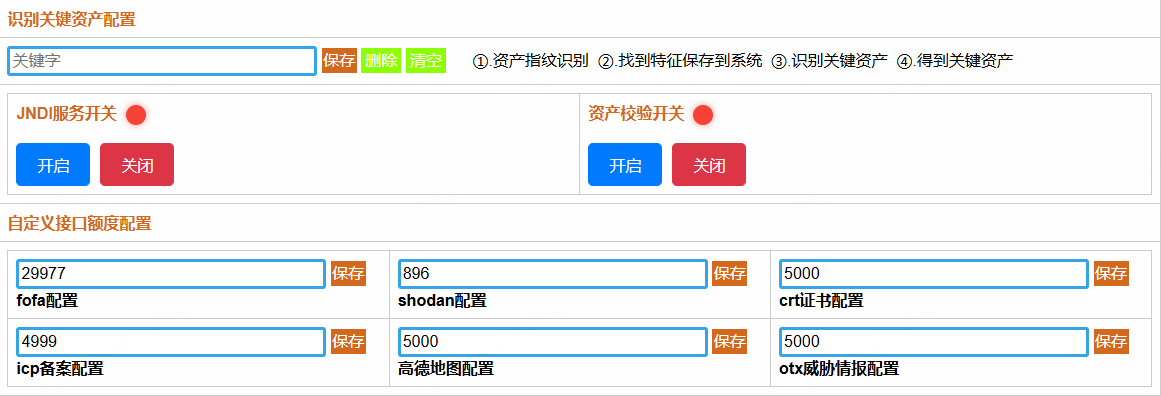
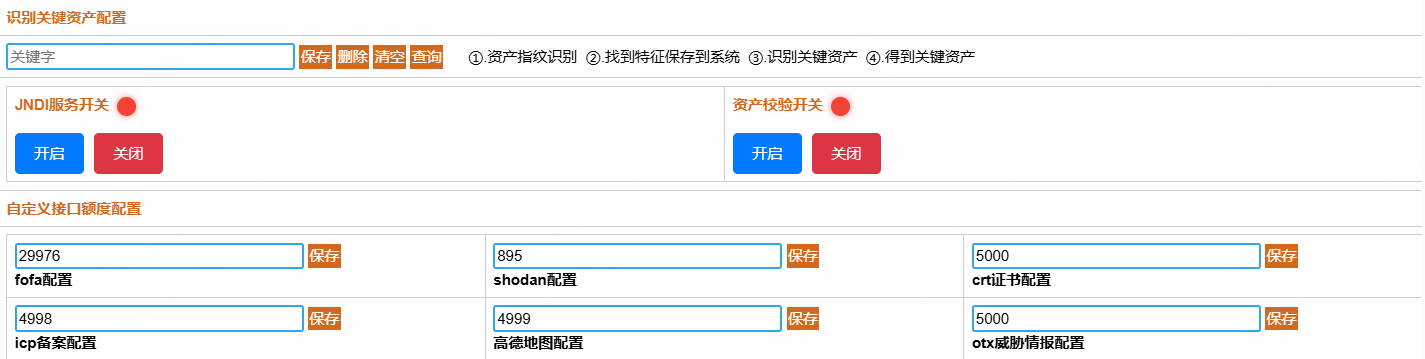
系统优化

Changed region(s): [[0.0, 0.0, 1.0, 1.0]]

diff --git a/static/js/common.js b/static/js/common.js
@@ -567,7 +567,7 @@ function startscanconfigpagefunc() {
     var sessionid6 = document.getElementById('sessionid6');
 
     $.ajax({
-        url: '/system_config_data/', 
+        url: '/system_config_data/',
         method: 'GET',
         success: function (info) {
             // 为input元素赋值
@@ -605,7 +605,7 @@ function startscanconfigpagefunc() {
             // 资产校验开关状态
             const statusElement1 = document.getElementById('assetsjiaoyanstatusid1');
             const status1 = info.assets_jiaoyan_status;
-            
+
             // 根据状态添加对应样式
             if (status1 === '已开启校验') {
                 statusElement1.classList.add('status-running');
@@ -1000,11 +1000,12 @@ function delete_rule_func() {
             key: 1
         },
         success: function (info) {
-            alert(info.delete_rule)
+            document.getElementById("filterruleid1").innerHTML = info.delete_rule;
+            // alert(info.delete_rule)
         },
 
         error: function (info) {
-            alert("内部出错")
+            document.getElementById("filterruleid1").innerHTML = "内部出错";
         },
         complete: function () {
 
@@ -1024,11 +1025,12 @@ function delete_rule_all_func() {
             key: 2
         },
         success: function (info) {
-            alert(info.delete_rule)
+            document.getElementById("filterruleid1").innerHTML = info.delete_rule;
         },
 
         error: function (info) {
-            alert("内部出错")
+            // alert("内部出错")
+            document.getElementById("filterruleid1").innerHTML = "内部出错";
         },
         complete: function () {
 
@@ -1893,12 +1895,12 @@ function comfirmclearlogfunc() {
             sessionid5: sessionid5,
             sessionid6: sessionid6,
             rule_input_id1: rule_input_id1,
-            customizelimitid1:customizelimitid1,
-            customizelimitid2:customizelimitid2,
-            customizelimitid3:customizelimitid3,
-            customizelimitid4:customizelimitid4,
-            customizelimitid5:customizelimitid5,
-            customizelimitid6:customizelimitid6
+            customizelimitid1: customizelimitid1,
+            customizelimitid2: customizelimitid2,
+            customizelimitid3: customizelimitid3,
+            customizelimitid4: customizelimitid4,
+            customizelimitid5: customizelimitid5,
+            customizelimitid6: customizelimitid6
         },
         success: function (info) {
             document.getElementById("filterruleid1").innerHTML = info.recheck_result;
@@ -2900,11 +2902,11 @@ function pointlogopagefunc() {
 function updateClock() {
     const now = new Date();
     const formattedTime = now.getFullYear() + '/' +
-                         String(now.getMonth() + 1).padStart(2, '0') + '/' +
-                         String(now.getDate()).padStart(2, '0') + ' ' +
-                         String(now.getHours()).padStart(2, '0') + ':' +
-                         String(now.getMinutes()).padStart(2, '0') + ':' +
-                         String(now.getSeconds()).padStart(2, '0');
+        String(now.getMonth() + 1).padStart(2, '0') + '/' +
+        String(now.getDate()).padStart(2, '0') + ' ' +
+        String(now.getHours()).padStart(2, '0') + ':' +
+        String(now.getMinutes()).padStart(2, '0') + ':' +
+        String(now.getSeconds()).padStart(2, '0');
     document.getElementById('clock').textContent = formattedTime;
 }
 
@@ -2970,4 +2972,48 @@ function stopassetsjiaoyanfunc() {
             statusElement.className = 'status-circle status-error';
         }
     })
+}
+
+
+// 查询高危资产规则
+function select_rule_all_func() {
+    var modal7 = document.getElementById("modal7");
+    modal7.style.display = "block";
+    // 清空表格体中的所有行
+    const tableBody = document.querySelector('#data-table3 tbody');
+    tableBody.innerHTML = '';
+    $.ajax({
+        url: '/high_asset_characteristics/',
+        method: 'GET',
+        success: function (info) {
+            const tableBody = document.querySelector('#data-table3 tbody');
+
+            // 遍历数组中的每个字符串项
+            info.assets_character_result.forEach((item) => {
+                const row = document.createElement('tr'); // 创建新的行
+
+                // 创建内容单元格
+                const contentCell = document.createElement('td');
+                contentCell.textContent = item; // 显示数组中的字符串
+                row.appendChild(contentCell);
+
+                tableBody.appendChild(row); // 将行添加到表格体中
+            });
+
+        },
+        error: function () {
+
+
+        },
+        complete: function () {
+
+        }
+    })
+}
+
+// 关闭高危资产查询规则
+function stop_rule_all_func() {
+    var modal7 = document.getElementById("modal7");
+    modal7.style.display = "none";
+
 }

diff --git a/templates/tanchuang.html b/templates/tanchuang.html
@@ -516,8 +516,9 @@
                     <input type="text" placeholder="关键字" id="rule_input_id1" class="my-input5">
 
                     <span class="my-span" onclick="startverifychearlogfunc('11')">保存</span>
-                    <span class="my-spann" onclick="delete_rule_func()">删除</span>
-                    <span class="my-spann" onclick="delete_rule_all_func()">清空</span>
+                    <span class="my-span" onclick="delete_rule_func()">删除</span>
+                    <span class="my-span" onclick="delete_rule_all_func()">清空</span>
+                    <span class="my-span" onclick="select_rule_all_func()">查询</span>
                     &nbsp;&nbsp;&nbsp;&nbsp;
                     ①.资产指纹识别&nbsp;&nbsp;②.找到特征保存到系统&nbsp;&nbsp;③.识别关键资产&nbsp;&nbsp;④.得到关键资产
 
@@ -707,6 +708,26 @@
                     <th>Name</th>
                     <th>Remote Address</th>
                     <th>Created At</th>
+                </tr>
+            </thead>
+            <tbody>
+                <!-- 数据将被填充在这里 -->
+            </tbody>
+        </table>
+
+    </div>
+</div>
+
+<!-- 高危资产过滤规则列表 -->
+<div id="modal7" class="modal2">
+    <div class="modal-content4">
+        <span class="close" onclick="stop_rule_all_func()">&times;</span>
+        <h3>高危资产过滤规则</h3>
+       
+        <table id="data-table3">
+            <thead>
+                <tr>
+                    <th>规则名称</th>
                 </tr>
             </thead>
             <tbody>

diff --git a/static/css/common.css b/static/css/common.css
@@ -213,10 +213,12 @@ h2 {
 	/* 垂直居中，水平居中  */
 	padding: 5px;
 	border: 10px solid #888;
-	width: 80%;
+	width: 100%;
 	/* 弹窗宽度可以根据需要调整 */
 	border: 2px solid #007BFF;
 	/* 设置边框宽度为2px，样式为实线，颜色为蓝色 */
+	margin-left: 15%;
+	margin-top: 3%;
 }
 .close1 {
 	color: #aaa;
@@ -844,5 +846,39 @@ body {
 	height: 50px;
 	width: 500px;
 	resize: vertical;
+	
+}
+
+.modal2 {
+	display: none;
+	/* 隐藏弹窗 */
+	position: absolute;
+	/* 弹窗固定在视口 */
+	
+	left: 0;
+	top: 0;
+	width: 60%;
+	/* 宽度为全屏 */
+	height: 100%;
+	/* 高度为全屏 */
+	overflow: auto;
+	/* 启用滚动条 */
+	background-color: rgba(0, 0, 0, 0.5);
+	/* 黑色背景，半透明 */
+	z-index: 1009;
+	/* 确保弹窗在其他元素上面 */
+}
+
+.modal-content4 {
+	background-color: #fefefe;
+	margin: 10% auto;
+	margin-left: 15% ;
+	/* 垂直居中，水平居中  */
+	padding: 5px;
+	border: 10px solid #888;
+	width: 80%;
+	/* 弹窗宽度可以根据需要调整 */
+	border: 2px solid #007BFF;
+	/* 设置边框宽度为2px，样式为实线，颜色为蓝色 */
 	
 }

diff --git a/templates/largescreen.html b/templates/largescreen.html
@@ -132,7 +132,8 @@
                     </ul>
 
 
-                    <div class="row" style="padding: 0 2vw">
+                    <!-- <div class="row" style="padding: 0 2vw"> -->
+                    <div class="tab-content">
                         <div class="col-md-2">
                             <div class="column">
                                 <p>fofa</p>
@@ -537,6 +538,8 @@
                     </div>
                 </div>
             </div>
+
+
             <div class="col-md-6 col-lg-3 mrbt">
                 <div class="totalbox">
                     <!-- Nav tabs -->
@@ -739,7 +742,8 @@
                     </ul>
 
 
-                    <div class="row" style="padding: 0 2vw">
+                    <!-- <div class="row" style="padding: 0 2vw"> -->
+                    <div class="tab-content">
 
                         <div class="col-md-2">
                             <div class="column">
@@ -835,7 +839,6 @@
 
                 </div>
             </div>
-
 
         </div>
     </div>

diff --git a/templates/index.html b/templates/index.html
@@ -378,7 +378,7 @@
 										<input type="button" id="button24" value="CDN检测" onclick="opencdnjiancefunc()"
 											disabled>&nbsp;&nbsp;
 
-										<input type="button" id="button51" value="识别关键资产" onclick="key_data_tiqu_func()"
+										<input type="button" id="button51" value="识别高危资产" onclick="key_data_tiqu_func()"
 											disabled>&nbsp;&nbsp;&nbsp;&nbsp;&nbsp;&nbsp;
 
 										

diff --git a/static/css/largescreen-base.css b/static/css/largescreen-base.css
@@ -68,7 +68,9 @@ body{
 .totalbox{
     border: 1px solid #3188ff;
     box-shadow: 0.1vw 0.1vw 1vw rgba(38,79,141,.7);
-    height: 22vw;
+    height: 25vw;
+    
+
 }
 
 .totaltem{
@@ -126,7 +128,8 @@ body{
 }
 
 .tab-content{
-    height: 86%;
+    height: 100%;
+    width: 100%;
 }
 .tab-pane{
     height: 100%;

diff --git a/scan_main_web.py b/scan_main_web.py
@@ -15,7 +15,7 @@ from basic import root_domain_scan
 #主系统账号密码配置导入
 from config import main_username
 from config import main_password
-# 重点资产数量规则
+# 高危资产数量规则
 from config import Shiro_rule
 from config import SpringBoot_rule
 from config import weblogic_rule
@@ -1286,7 +1286,7 @@ def shiro_report_show():
     
     
 
-#识别重点资产
+#识别高危资产
 @app.route("/key_assets_withdraw/")
 def key_assets_withdraw():
     user = session.get('username')
@@ -1295,7 +1295,7 @@ def key_assets_withdraw():
         
         eholestatus = os.popen('bash /TIP/info_scan/finger.sh ehole_status').read()
         if "running" in eholestatus:
-            key_assets_result = "指纹识别接口正在运行中请稍后再进行识别重点资产"
+            key_assets_result = "指纹识别接口正在运行中请稍后再进行识别高危资产"
         else:
 
             # 根据config.py中finger_list配置进行识别，可在finger_list列表中配置多个，最终写入到全局资产文件url.txt中
@@ -1313,9 +1313,9 @@ def key_assets_withdraw():
             # 从资产文件url.txt中根据规则分别提取出springboot、weblogic、struts2、shiro资产并写入对应的文件
             basic.asset_by_rule_handle()
 
-            key_assets_result = "已成功识别出重点资产"
+            key_assets_result = "已成功识别出高危资产"
             # 筛选后资产时间线更新
-            basic.assets_status_update('识别重点资产已完成')
+            basic.assets_status_update('识别高危资产已完成')
         
         message_json = {
             "key_assets_result":key_assets_result
@@ -1520,7 +1520,7 @@ def restartsystemservice():
 
 
 
-# 重点资产识别根据筛选规则名称删除
+# 高危资产识别根据筛选规则名称删除
 @app.route("/delete_point_rule_interface/",methods=['post'])
 def delete_point_rule_interface():
     user = session.get('username')
@@ -4769,7 +4769,7 @@ def comfirmclearloginterface():
                 print("配置otx威胁情报接口额度")
                 recheck_result = basic.update_customize_interface_totalnum(customizelimitid6,6)
             elif int(inputmodel3) ==11:
-                print("配置重点资产识别")
+                print("配置高危资产识别")
                 
                 if '' in  rule_input_id1:
                     recheck_result = "输入参数不能为空"
@@ -6291,6 +6291,20 @@ def stopassetserification():
         return render_template('login.html')
 
 
+# 高危资产特征查询
+@app.route("/high_asset_characteristics/")
+def high_asset_characteristics():
+    user = session.get('username')
+    if str(user) == main_username:
+        assets_character_result = basic.select_rule()
+        if len(assets_character_result) == 0:
+            assets_character_result = ["高危资产规则为空"]
+        message_json = {
+            "assets_character_result":assets_character_result
+        }
+        return jsonify(message_json)
+    else:
+        return render_template('login.html')
 
 
 if __name__ == '__main__':  

diff --git a/basic.py b/basic.py
@@ -3787,9 +3787,9 @@ if __name__ == "__main__":
             withdrawiplocation_lib()
 
         # 测试使用
-        elif func_name == 'update_verification_table_lib':
-            c = update_verification_table_lib(2,1)
-            print(c)
+        elif func_name == 'select_rule':
+            c = select_rule()
+            print(type(c))
         else:
             print("Invalid function number")
     else:

diff --git a/readme.md b/readme.md
@@ -75,6 +75,7 @@ mysql账号密码：admin/123456<br>
 5.密码查询和杀软查询首页去掉查询所有数据，只能通过关键字进行搜索；<br>
 6.接口额度由配置文件修改为前端自定义配置；<br>
 7.资产格式校验开关由原来的配置文件修改为前端开关配置；<br>
+8.系统配置页面新增高危资产特征弹窗显示；<br>
 </li>
 <li>
 2025-4-9更新<br> 
